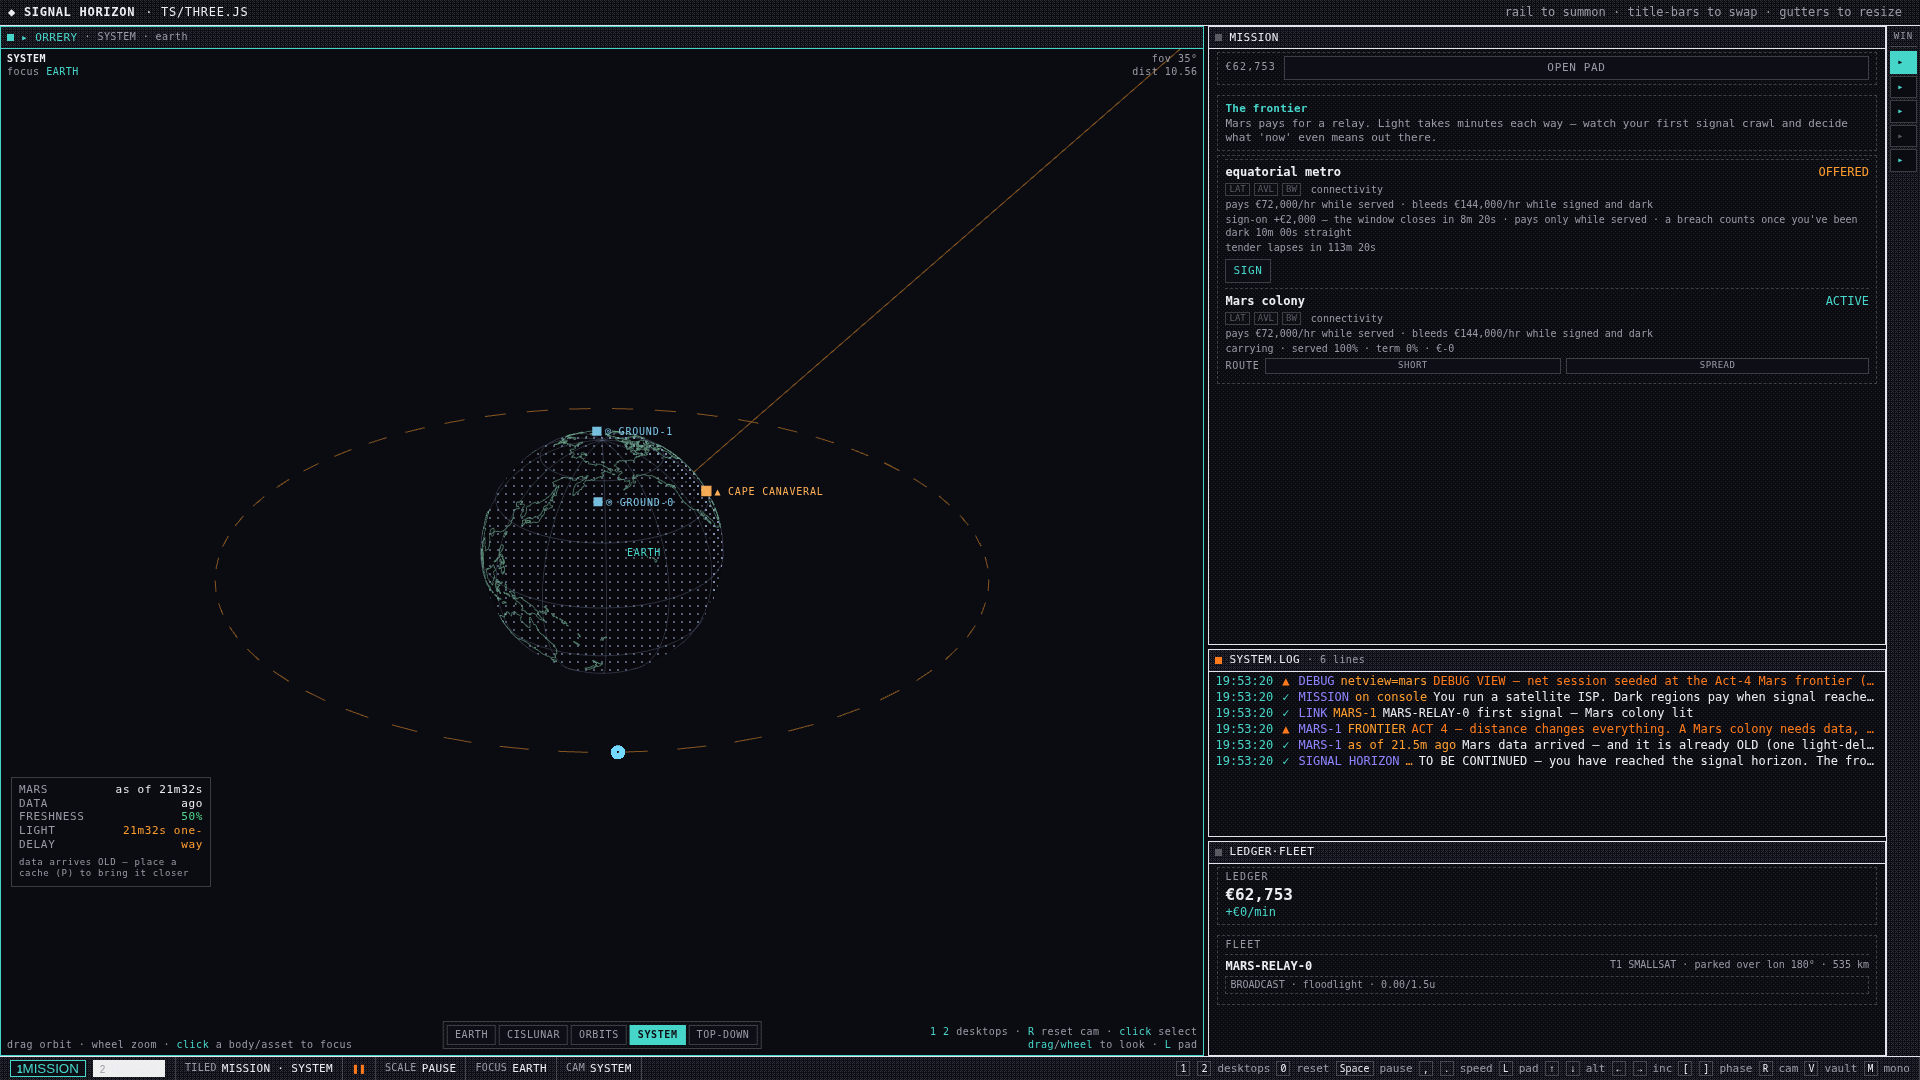
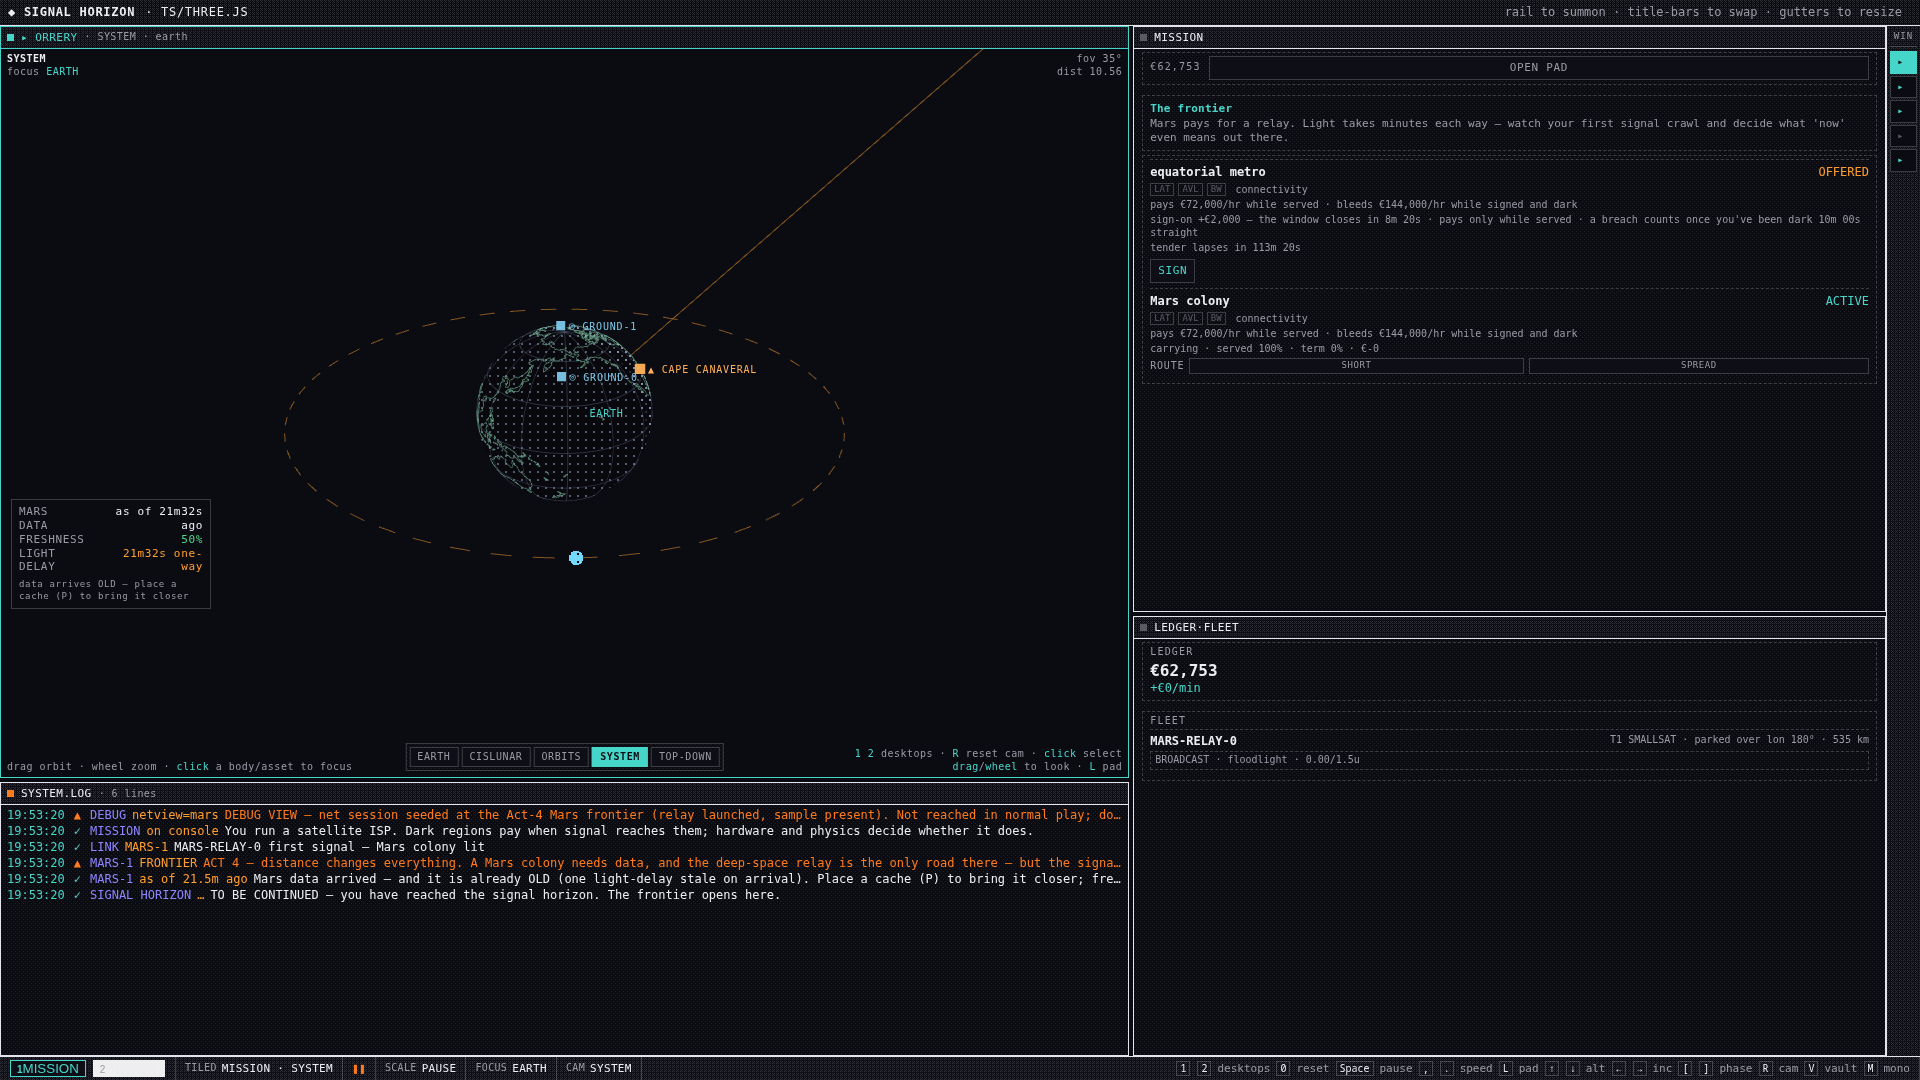
UX: typed digits no longer hijack desktops; MISSION column stack → left(orrery+wire) / right(book+fleet); fleet chips click-select the sat + coverage blob

diff --git a/src/main.ts b/src/main.ts
@@ -2765,6 +2765,10 @@ const missionTopPanel = new MissionTop({
 const ledgerFleetPanel = new LedgerFleet({
   onCycleBeam: (satId, slot) => r1CycleBeam(satId, slot),
   onCircularize: (satId) => r1Circularize(satId),
+  // A fleet chip click INSPECTS the sat — the orrery draws its blob without moving the camera.
+  onSelectSat: (satId) => {
+    orrery.selectedId = satId;
+  },
 });
 
 /** Current body-fixed sub-longitude (deg) of a live sat (the parked-GEO aim readout). */
@@ -2969,7 +2973,7 @@ function ledgerFleetState(): LedgerFleetState {
             : "ascent";
     return { id: ev.id, phase };
   });
-  return { balanceEur: netSession.balance, ratePerMin: r1FlowRate(), chips, pending };
+  return { balanceEur: netSession.balance, ratePerMin: r1FlowRate(), chips, pending, selectedId: orrery.selected() };
 }
 
 // DEV probe (SD-45 flicker hunt): sample the live serve verdict from the console.
@@ -3294,6 +3298,10 @@ if (import.meta.env.DEV) {
 // --- keyboard ---------------------------------------------------------------
 window.addEventListener("keydown", (e) => {
   if (e.repeat) return;
+  // UX FIX — typing "1" into a typed pad field must NOT switch desktops: while an editable
+  // control owns focus, global keys stand down (Escape/Enter still work the field's contract).
+  const tgt = e.target as HTMLElement | null;
+  if (tgt && (tgt.tagName === "INPUT" || tgt.tagName === "TEXTAREA" || tgt.tagName === "SELECT" || tgt.isContentEditable)) return;
   const k = e.key;
   // §3.1 — THE PLANNER DRAFT NUDGE KEYS (net mode, the headless-drivable ceiling control): the
   // arrow keys nudge the two parameters that matter first (§3.1) — Up/Down = ALTITUDE (the GEO/LEO

diff --git a/src/panels/ledger-fleet.ts b/src/panels/ledger-fleet.ts
@@ -36,6 +36,8 @@ export interface FleetChip {
 }
 
 export interface LedgerFleetState {
+  /** The current orrery selection (the marked chip also draws its blob up top). */
+  selectedId?: string | null;
   balanceEur: number;
   ratePerMin: number;
   chips: FleetChip[];
@@ -46,6 +48,8 @@ export interface LedgerFleetState {
 export interface LedgerFleetActions {
   onCycleBeam(satId: string, slot: number): void;
   onCircularize(satId: string): void;
+  /** Click-select a chip ⇒ the orrery draws that sat's coverage blob (its live career). */
+  onSelectSat(satId: string): void;
 }
 
 function el(tag: string, cls?: string, text?: string): HTMLElement {
@@ -101,7 +105,15 @@ export class LedgerFleet implements PanelHandle {
       for (const c of s.chips) {
         const chip = el("div", "lf-chip");
         const head = el("div", "lf-chip-head");
-        head.appendChild(el("span", "lf-chip-id", c.id));
+        // FL-UX — clicking a chip INSPECTS the bird: the orrery draws its coverage blob + the
+        // label marks it. (The WM's own drag gestures live on titlebars only, so a content click
+        // is free real estate.)
+        head.style.cursor = "pointer";
+        head.classList.toggle("sel", s.selectedId === c.id);
+        head.addEventListener("click", () => this.actions.onSelectSat(c.id));
+        head.title = "inspect on the orrery (its coverage blob draws)";
+        const idSpan = el("span", "lf-chip-id", c.id);
+        head.appendChild(idSpan);
         const orbitTxt =
           c.parkedLonDeg !== null
             ? `${c.tier} · parked over lon ${Math.round(c.parkedLonDeg)}° · ${Math.round(c.altKm)} km`

diff --git a/src/wm/presets.ts b/src/wm/presets.ts
@@ -104,19 +104,25 @@ export const PRESET_SPECS: PresetSpec[] = [
  */
 export const NET_PRESET_SPECS: PresetSpec[] = [
   {
-    // MISSION (key 1) — THE game screen (m1-redesign.md §2.1): 90% of play happens here and
-    // the loop never leaves it. The orrery is the input device on the left; the right rail
-    // stacks the MISSION book/pad (tenders ⇄ vehicle builder), the WIRE (SYSTEM.LOG), and
-    // the LEDGER·FLEET strip (wallet + per-sat pipes/beams).
+    // MISSION (key 1) — THE game screen (m1-redesign.md §2.1). The orrery owns the left with
+    // the WIRE tucked UNDER it (the log is part of the left column now: acts/caches/faults ride
+    // the eye-line of the globe); the right column is the MISSION pad on top and the fleet room
+    // big enough to read as a manifest — user's direct ask 2026-08-09: "the orrery takes too
+    // much space on the left, put the log under it, give the fleet more room".
     name: "MISSION",
     columns: [
-      { weight: 0.64, rows: [{ weight: 1, host: "orrery" }] },
       {
-        weight: 0.36,
+        weight: 0.6,
         rows: [
-          { weight: 2.3, host: "mission-top" },
-          { weight: 0.7, host: "system-log" },
-          { weight: 0.8, host: "ledger-fleet" },
+          { weight: 2.2, host: "orrery" },
+          { weight: 0.8, host: "system-log" },
+        ],
+      },
+      {
+        weight: 0.4,
+        rows: [
+          { weight: 1.6, host: "mission-top" },
+          { weight: 1.2, host: "ledger-fleet" },
         ],
       },
     ],

diff --git a/src/style.css b/src/style.css
@@ -1225,3 +1225,8 @@ html.cvd-mono .orrery-host canvas { filter: grayscale(1) contrast(1.06); }
 /* UX — the next-act preview line (dim, unnamed mechanics: a name only). */
 .mission-next { color: var(--grey); font-size: var(--ts-cap); letter-spacing: 0.1em; margin-top: 2px; }
 .mission-next:empty { display: none; }
+
+/* FL-UX — fleet-chip inspect affordance: hover + selected state; the blob link lives here. */
+.lf-chip-head { cursor: pointer; }
+.lf-chip-head:hover .lf-chip-id { color: var(--cyan); }
+.lf-chip-head.sel .lf-chip-id { color: var(--cyan); text-decoration: underline; text-underline-offset: 2px; }
